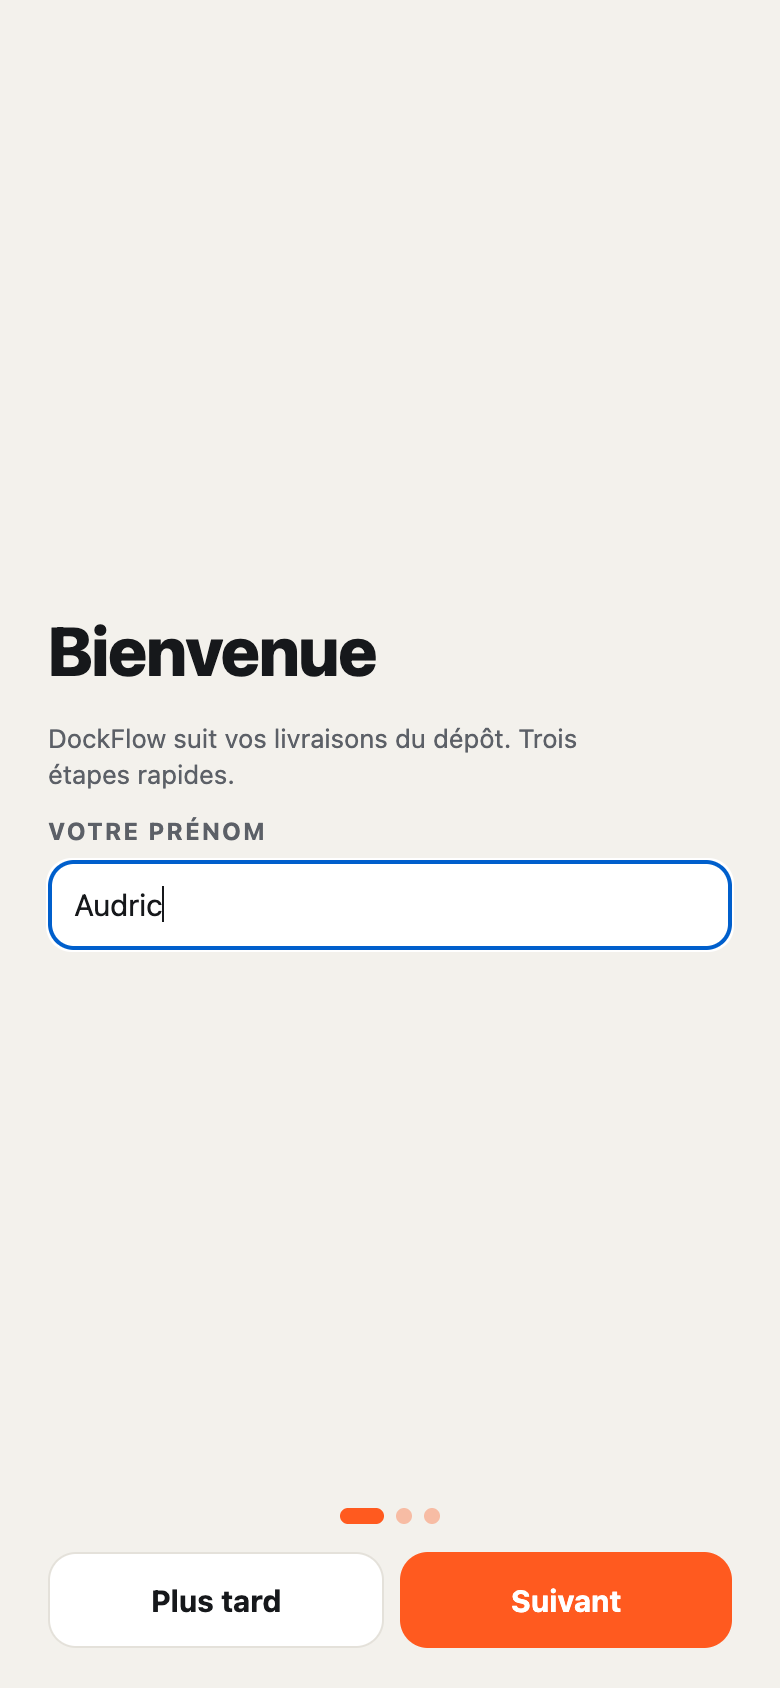
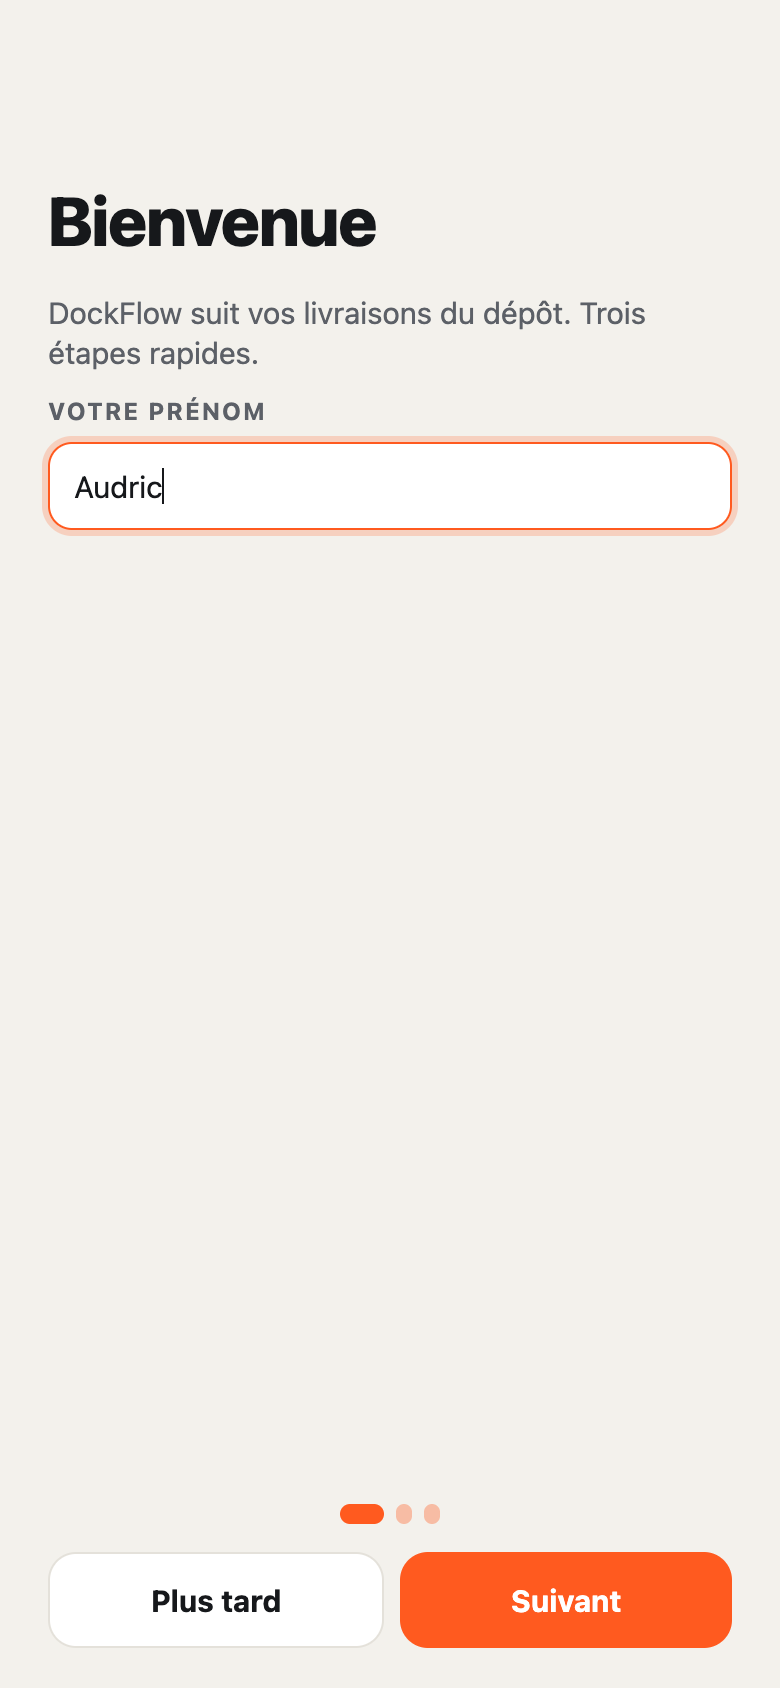
DockFlow V1.3 lot 2 + finitions (109 tests OK)

diff --git a/src/style.css b/src/style.css
@@ -238,3 +238,18 @@ select{appearance:none;-webkit-appearance:none;padding-right:40px;background-ima
 .dock-mode .chip,.dock-mode .btn{font-size:16px}
 .dock-mode .tbd,.dock-mode .sic{transform:scale(1.2)}
 .dock-mode .card{border-width:2px}
+
+/* --- V1.3 lot 2 finitions --- */
+.ob-body{align-items:flex-start;padding-top:max(88px,calc(env(safe-area-inset-top) + 56px))}
+.ob-chip{padding:0 6px 0 14px}
+.ob-chip span{display:grid;place-items:center;width:32px;height:32px;border-radius:50%;background:color-mix(in srgb,var(--acc) 10%,transparent)}
+.ob-dots i{height:10px}
+.ob-step .meta{font-size:15px;color:var(--mut)}
+[data-ob-mode].on{background:var(--ink)!important;border-color:var(--ink)!important;color:var(--bg)!important}
+[data-dockmode]{display:flex;justify-content:space-between;align-items:center}
+[data-dockmode]::after{content:"";width:46px;height:28px;border-radius:99px;background:var(--line);box-shadow:inset 0 0 0 2px var(--line);transition:background .18s}
+[data-dockmode][aria-pressed="true"]::after{background:#fff;box-shadow:inset 22px 0 0 2px var(--acc)}
+.btn.bad{margin-top:14px}
+[data-dockmode][aria-pressed="true"]{background:var(--card)!important;color:var(--ink)!important;border:1px solid var(--line)}
+input:focus,select:focus,textarea:focus{outline:none;border-color:var(--acc);box-shadow:0 0 0 3px color-mix(in srgb,var(--acc) 22%,transparent)}
+.ob-step .btn.acc[aria-label="Ajouter"]{background:color-mix(in srgb,var(--acc) 12%,var(--card));color:var(--acc)}
